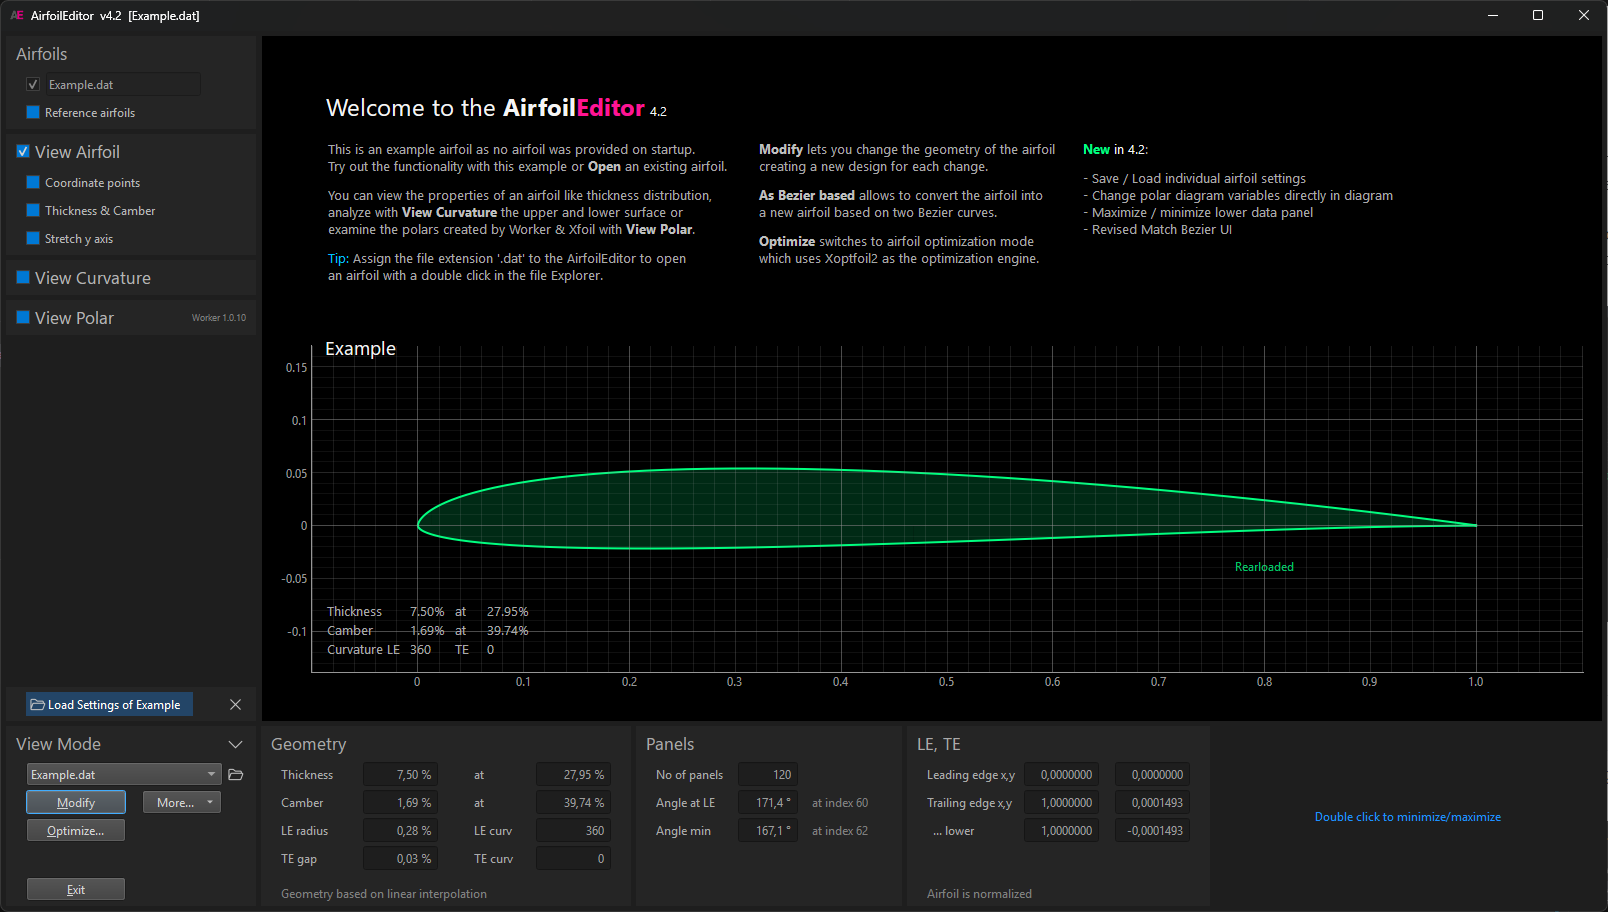
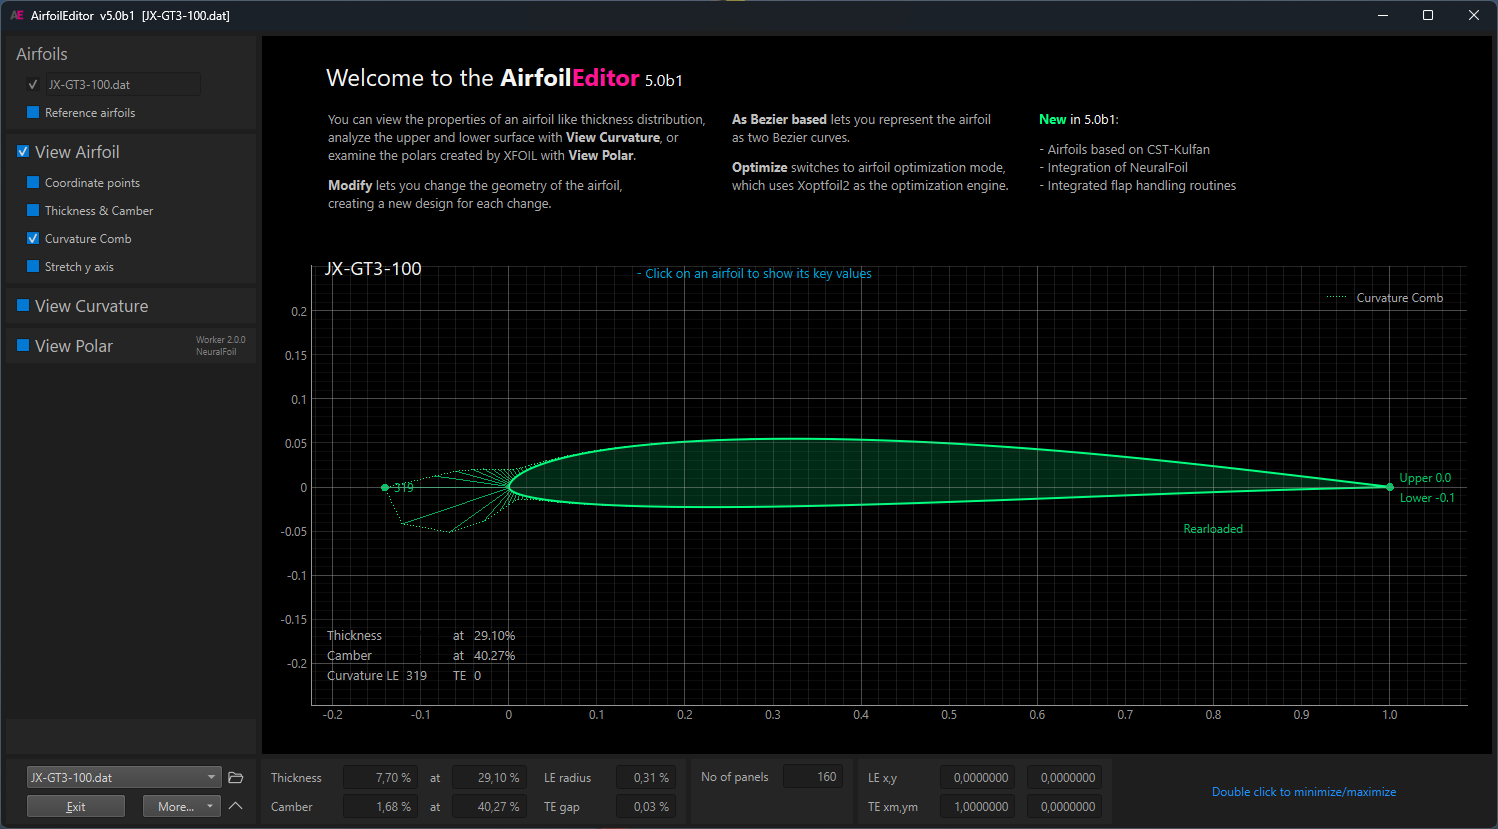
Update README to 5.0

diff --git a/airfoileditor/app.py b/airfoileditor/app.py
@@ -63,12 +63,11 @@ logger = logging.getLogger(__name__)
 
 APP_NAME         = "AirfoilEditor"
 PACKAGE_NAME     = "airfoileditor"
-__version__      = "5.0-dev"                  # hatch "version dynamic" - PEP440 compliant version string
-                                            # for Github use SemVer "4.2.0-beta.3"
+__version__      = "5.0b1"                   # hatch "version dynamic" - PEP440 compliant version string
 
 CHANGE_TEXT      = "- Airfoils based on CST-Kulfan<br>"  + \
                    "- Integration of NeuralFoil<br>" + \
-                   "- Added PSO match airfoil optimizer (experimental)<br>"
+                   "- Integrated flap handling routines"
 
 
 class Main (QMainWindow):

diff --git a/README.md b/README.md
@@ -1,17 +1,15 @@
 ![AE](images/AirfoilEditor_logo.png "Screenshot of the AirfoilEditor ")
 
-### Version 5.0 dev
+### Version 5.0 beta 1
 
-Version 5.0 introduces CST-Kulfan-based airfoil support and integrates [NeuralFoil](https://github.com/peterdsharpe/NeuralFoil) as a fast alternative to XFOIL-based polar generation.
-
-Current release: Version 4.3.2
+This pre-release adds CST-Kulfan-based airfoil support and integrates [NeuralFoil](https://github.com/peterdsharpe/NeuralFoil) as a fast alternative to XFOIL-based polar generation.
 
 The **AirfoilEditor** is a fast airfoil viewer, analyzer, and advanced geometry editor with integrated Xoptfoil2-based optimization. The app provides three operating modes:
 
 #### View
 * Browse and view airfoils in subdirectories
 * Analyze curvature of airfoil surface
-* Show polars generated using XFOIL
+* Show polars generated using XFOIL or [NeuralFoil](https://github.com/peterdsharpe/NeuralFoil)
 * Export airfoil to DXF format 
 
 #### Modify
@@ -19,21 +17,22 @@ The **AirfoilEditor** is a fast airfoil viewer, analyzer, and advanced geometry 
 * Adjust thickness, camber, high points, and trailing edge gap
 * Blend two airfoils
 * Set flap
-* Generate airfoil replicas using Bezier or B-Spline curves
+* Generate airfoil replicas using Bezier, B-Spline or CST-Kulfan curves
 
 #### Optimize
 * User Interface of [Xoptfoil2](https://github.com/jxjo/Xoptfoil2)
 * Graphical definition of polar based objectives
 * View results while optimizing
 
-The app was initially developed to address artifacts found in other tools like Xflr5 when using xfoil geometry routines. The aim has been an intuitive, user-friendly experience that encourages exploration.
-The app, developed in Python with the Qt UI framework, runs on Windows, Linux, and MacOS. Linux and MacOS users are required to compile the underlying programs for polar viewing and airfoil optimization - see 'Installation' for details.
+The app was initially developed to address artifacts found in other tools when using XFOIL geometry routines. The aim has been an intuitive, user-friendly experience that encourages exploration.
+
+The app, developed in Python with the Qt UI framework, runs on Windows, Linux, and MacOS. On Linux and MacOS, View and Modify mode work directly after installation, while XFOIL-based polar generation and optimization require compiled external binaries when those features are used - see 'Installation' for details.
 
 ## Quick Start
 
 * Windows (recommended): download and run the latest installer from the [GitHub releases page](https://github.com/jxjo/AirfoilEditor/releases).
 * Python package: `pip3 install airfoileditor`, then run `airfoileditor`.
-* Linux/macOS note: View and Modify mode work directly after installation; Polars and Optimize mode require compiled `worker` and `xoptfoil2` binaries.
+* Linux/macOS note: View and Modify mode work directly after installation; XFOIL Polars and Optimize mode require compiled `worker` and `xoptfoil2` binaries.
 
 
 ![AE](images/AirfoilEditor_App_dark.png "AirfoilEditor App")
@@ -46,13 +45,15 @@ The **AirfoilEditor** utilizes various strategies to represent the geometry of a
 
 * 'Linear interpolation' – Using the point coordinates from the airfoils '.dat' file, intermediate points are calculated through linear interpolation. Used for quick previews and simple tasks.
 
-* 'Cubic spline interpolation' – A cubic spline is created from the airfoil's point coordinates, enabling precise interpolation of intermediate points.
+* 'Cubic Spline' – A cubic spline is created from the airfoil's point coordinates, enabling precise interpolation of intermediate points.
 
 * 'Bezier curve' – An airfoil is modeled using two Bezier curves, one for the upper surface and one for the lower surface. Nelder-Mead optimization is used to fit these Bezier curves to an existing airfoil profile.
 
 * 'B-Spline curve' – Quite similar to Bezier using two (segmented) B-Splines of degree 4 to represent an airfoil (experimental).
 
-Spline interpolation is applied to determine the position of the actual leading edge, which can vary from the coordinate-based leading edge defined as the point with the smallest x-value. Airfoil normalization iteratively rotates, stretches, and shifts the airfoil so its leading edge based on the spline is at (0,0) and trailing edge at (1,0).
+* 'CST-Kulfan' – A compact airfoil-shape formulation that combines class/shape transformation with Kulfan design variables for smooth, controllable geometry.
+
+The 'Cubic Spline' is applied for coordinate based airfoils to determine the exact position of the actual leading edge, which can vary from the coordinate-based leading edge defined as the point with the smallest x-value. Airfoil normalization rotates, stretches, and shifts the airfoil so its leading edge based on the spline is at (0,0) and trailing edge at (1,0).
 
 For thickness and camber geometry operations, the airfoil is divided into two separate splines representing the thickness and camber distributions. A mapping spline—similar to that in XFOIL—is applied to shift the high point of thickness or camber. The airfoil is then reconstructed from the adjusted thickness and camber splines.
 This method also enables separate adjustment of the upper and lower surfaces' high points.
@@ -69,33 +70,37 @@ Have a look at the [Xoptfoil2 geometry documentation](https://jxjo.github.io/Xop
 
 ![AE](images/curvature.png "curvature")
 
+A 'curvature comb' can also be displayed around the airfoil as an alternative way to visualize the surface curvature.
 
-## Bezier and B-Spline based Airfoils
+## Bezier, B-Spline and CST-Kulfan based Airfoils
 
-Beside `.dat` files, the AirfoilEditor seamlessly handles `.bez` files defining Bezier-based airfoils, and `.bsp` files for B-Spline-based airfoils.
-While traditional airfoils are defined by coordinate points, Bezier and B-Spline airfoils are defined by curves with control points. This approach provides inherently smooth curvature along the airfoil surface.
+Besides `.dat` files, the AirfoilEditor seamlessly handles `.bez` files defining Bezier-based airfoils, `.bsp` files for B-Spline-based airfoils, and `.cst` files for CST-Kulfan-based airfoils.
+While traditional airfoils are defined by coordinate points, curve-based airfoils are defined by control points or compact shape coefficients. This approach provides inherently smooth curvature along the airfoil surface and makes the geometry easier to edit parametrically.
 
-B-Spline-based airfoils were introduced in version 4.3 of the **AirfoilEditor** to gain more flexibility in airfoil optimization due to the local character of B-Spline control points compared to Bezier control points, which act globally by definition. However, achieving acceptable C3/C4 continuity between B-Spline segments is challenging and essential for generating smooth XFOIL polars. Therefore, B-Spline airfoils are currently in an experimental state. 
+Bezier and B-Spline airfoils are especially useful for interactive geometry editing because the control points can be moved directly in the diagram while preserving a smooth shape. B-Spline-based airfoils were introduced in version 4.3 of the **AirfoilEditor** to gain more flexibility in airfoil optimization due to the local character of B-Spline control points compared to Bezier control points, which act globally by definition. However, achieving acceptable C3/C4 continuity between B-Spline segments is challenging and essential for generating smooth XFOIL polars. Therefore, B-Spline airfoils are currently in an experimental state.
 
+CST-Kulfan airfoils use a compact class/shape transformation together with Kulfan design variables to represent the upper and lower surfaces with a small set of parameters. This formulation is well suited for smooth, stable geometry generation and is particularly convenient for rapid design exploration and for NeuralFoil-based evaluation. For CST-based airfoils, there is no dedicated match optimization in the sense of a Nelder-Mead curve fitting routine. Instead, a simple least-squares fit is used to recover the CST parameters from an existing airfoil. For the intended use in the **AirfoilEditor**, this is completely sufficient and keeps the workflow fast and robust.
 
 In 'Modify Mode', control points can be moved directly in the diagram with the mouse to adjust the airfoil geometry. Each modification creates a new 'Design' with newly generated polars.
 
-The match function (experimental for B-Spline) fits the curve to an existing airfoil as accurately as possible using simplex optimization (Nelder-Mead) to:
+The match function (experimental for B-Spline) fits the Bezier- or B-Spline-based curve to an existing airfoil as accurately as possible using simplex optimization (Nelder-Mead) to:
 
 * Minimize the root mean square (rms) deviation between the curve and target airfoil
 * Align the curvature at leading and trailing edges to the target
-* Avoid bumps of the curvature  
+* Avoid bumps of the curvature
 * Ensure equal curvature at the leading edge on both surfaces
+
+For CST-based airfoils, the equivalent step is a lightweight least-squares fit rather than a full match optimization.
 
 ![AE](images/match_bezier.png "match bezier")
 
-
-
 ### Export to DXF 
 
-Bezier- or B-Spline-based airfoils are especially useful for downstream work in 3D CAD, for example when building a wing from multiple airfoil sections.
+Curve-based airfoils are especially useful for downstream work in 3D CAD, for example when building a wing from multiple airfoil sections.
 
-The Export to DXF feature transfers curve-based airfoils as uniform B-splines with no loss of geometric precision. Since CAD systems also store curves internally as uniform B-splines, these exports are ideal for creating high-quality lofted 3D bodies.
+The Export to DXF feature converts all supported airfoil representations to spline-based geometry suitable for CAD workflows. Bezier- and B-Spline-based airfoils are exported as uniform B-splines without loss of geometric precision. Since CAD systems also store curves internally as uniform B-splines, this format is well suited for lofted 3D bodies.
+
+CST-Kulfan-based airfoils are exported in the same way as classic `.dat` profiles: they are converted to a spline representation for CAD import and downstream geometry processing. This keeps the exported geometry consistent across coordinate-based and parameterized airfoils.
 
 Classic `.dat` airfoils are exported as cubic splines, which are widely supported and interpreted correctly by CAD software.
 
@@ -106,21 +111,25 @@ During export, the airfoil can be scaled to the chord length of a wing section a
 
 ## Polars of an Airfoil
 
-To generate the polars of an airfoil, the **AirfoilEditor** uses the Worker tool from the [Xoptfoil2 project](https://github.com/jxjo/Xoptfoil2). One of its functions is multi-threaded polar set generation using XFOIL.
+The **AirfoilEditor** can generate polars using two methods: XFOIL-based polars through the Worker tool from the [Xoptfoil2 project](https://github.com/jxjo/Xoptfoil2), and [NeuralFoil](https://github.com/peterdsharpe/NeuralFoil)-based polars for fast interactive evaluation.
+
+The Worker-based workflow uses XFOIL to compute the polar data and is the reference method for higher-fidelity results. [NeuralFoil](https://github.com/peterdsharpe/NeuralFoil) is a learned aerodynamic model that predicts airfoil polars from the geometry and operating conditions. It is designed for rapid evaluation, which makes it well suited for interactive workflows where a polar should update immediately after geometry edits. For a more detailed description of the underlying concept, please refer to the [NeuralFoil project page](https://github.com/peterdsharpe/NeuralFoil).
+
+Compared with XFOIL-based generation via Worker, NeuralFoil allows near-real-time polar updates and is therefore particularly useful when modifying an airfoil and immediately checking the corresponding polar response. In general, the agreement with XFOIL is very good, especially when larger models such as `xlarge` are used. However, NeuralFoil polars can become slightly optimistic near `cl_max`, which is related to the CST-based geometric transformation used for the airfoil, where the nose radius can occasionally be represented too large.
 
 For polar generation, the Worker's `auto_range` feature optimizes the alpha range to show the complete T1 polar from `cl_min` to `cl_max`. For T2 polars (constant lift), the range starts just above `cl=0.0` up to `cl_max`.
 
 ### Polars on Demand
 
-Within the app, a polar is generated on demand when it needs to be displayed. If required, XFOIL polar generation executes asynchronously as a background task. Each generated polar is stored in an individual file using XFOIL's format for fast reuse. 
+In both workflows, a polar is generated automatically when it is needed for display. For XFOIL-based polars, the computation runs asynchronously in the background and typically takes about 1-5 seconds. For NeuralFoil-based polars, the calculation is performed synchronously and usually takes only around 10 milliseconds.
 
-This method enables the sequential review of airfoils or airfoil designs, displaying the polars without requiring additional user input.
+Each generated XFOIL polar is stored in an individual file using XFOIL's format for fast reuse. This method enables the sequential review of airfoils or airfoil designs, displaying the polars without requiring additional user input.
 
 ### Flapped Polars
 
-A polar can be 'flapped', meaning the airfoil has temporary flaps set before XFOIL computes the polar. This is convenient for comparing different airfoils at a specific flap angle without manually adjusting and recalculating.
+A polar can be 'flapped', meaning the airfoil has temporary flaps set before XFOIL or NeuralFoil computes the polar. This is convenient for comparing different airfoils at a specific flap angle without manually adjusting and recalculating.
 
-Alternatively, a flap can be set in 'Modify Mode' for an individual airfoil and saved as a separate airfoil. This is useful when the flapped airfoil is needed for further processing (for example, in XFLR5). 
+Alternatively, a flap can be set in 'Modify Mode' for an individual airfoil and saved as a separate airfoil. This is useful when the flapped airfoil is needed for further processing. 
 
 ![AE](images/polars.png "Flapped polars")
 
@@ -175,7 +184,7 @@ One of the possible modifications is to set a trailing edge flap: either permane
 
 Note: A flap cannot be set on an already 'flapped' airfoil. The app remembers the initial unflapped design airfoil, enabling multiple sequential flap settings to be applied during a design session.
 
-## Bezier and B-Spline based Airfoils (Modify Mode)
+## Bezier, B-Spline and CST-Kulfan based Airfoils (Modify Mode)
 
 Bezier-based and B-Spline-based airfoils can also be adjusted in 'Modify Mode'. Since their geometry is defined by curves rather than coordinate points, traditional parameters like thickness cannot be changed directly.
 
@@ -183,6 +192,7 @@ For trailing edge gap adjustments on curve-based airfoils, new control point coo
 
 Instead, control points of the curves can be moved directly in the diagram with the mouse. Each modification results in a new 'Design' with newly generated polars, making it easy to observe how adjustments impact aerodynamic performance.
 
+CST-Kulfan airfoils are also based on polynomial shape functions, but unlike Bezier curves they are defined on fixed x-stations. The profile shape is controlled primarily by the CST weights, which govern the vertical distribution of the curve along the chord. In the app, these weights can be edited interactively in a similar way to Bezier control points, but the adjustment is effectively vertical and acts at fixed x-positions. This results in a compact parameterization that still allows smooth and intuitive airfoil shaping.
 
 # 3. Optimization Mode
 
@@ -270,7 +280,9 @@ If you want to try the app and ensure the installation doesn't affect other pack
 
 The app is installed as a Python 'package'. Please ensure to have a Python version >=3.12.
 
-View and Modify mode work after package installation. Polars and Optimize mode additionally require compiled `worker` and `xoptfoil2` binaries.
+For View and Modify mode, no additional compilation is required. NeuralFoil is included as part of the package and can be used for fast polar evaluation without any extra setup.
+
+XFOIL-based polars and the optimization workflow require compiled `worker` and `xoptfoil2` binaries. If these features are not needed, the package can be used without building those external programs.
 
 ```
 pip3 install airfoileditor 
@@ -281,7 +293,7 @@ To upgrade to the latest version, use `pip3 install airfoileditor -U`.
 Run the app by typing `airfoileditor` on the command line.
 
 #### Preparing Xoptfoil2 and Worker
-To use polar generation and airfoil optimization the two programs `worker` and `xoptfoil2` have to be compiled and made available for the AirfoilEditor by copying the two programs into /usr/local/bin. 
+To use XFOIL-based polar generation and airfoil optimization, the two programs `worker` and `xoptfoil2` have to be compiled and made available for the AirfoilEditor by copying them into /usr/local/bin.
 
 Please have a look into [Xoptfoil2 README Installation](https://github.com/jxjo/Xoptfoil2) for further information.
 
